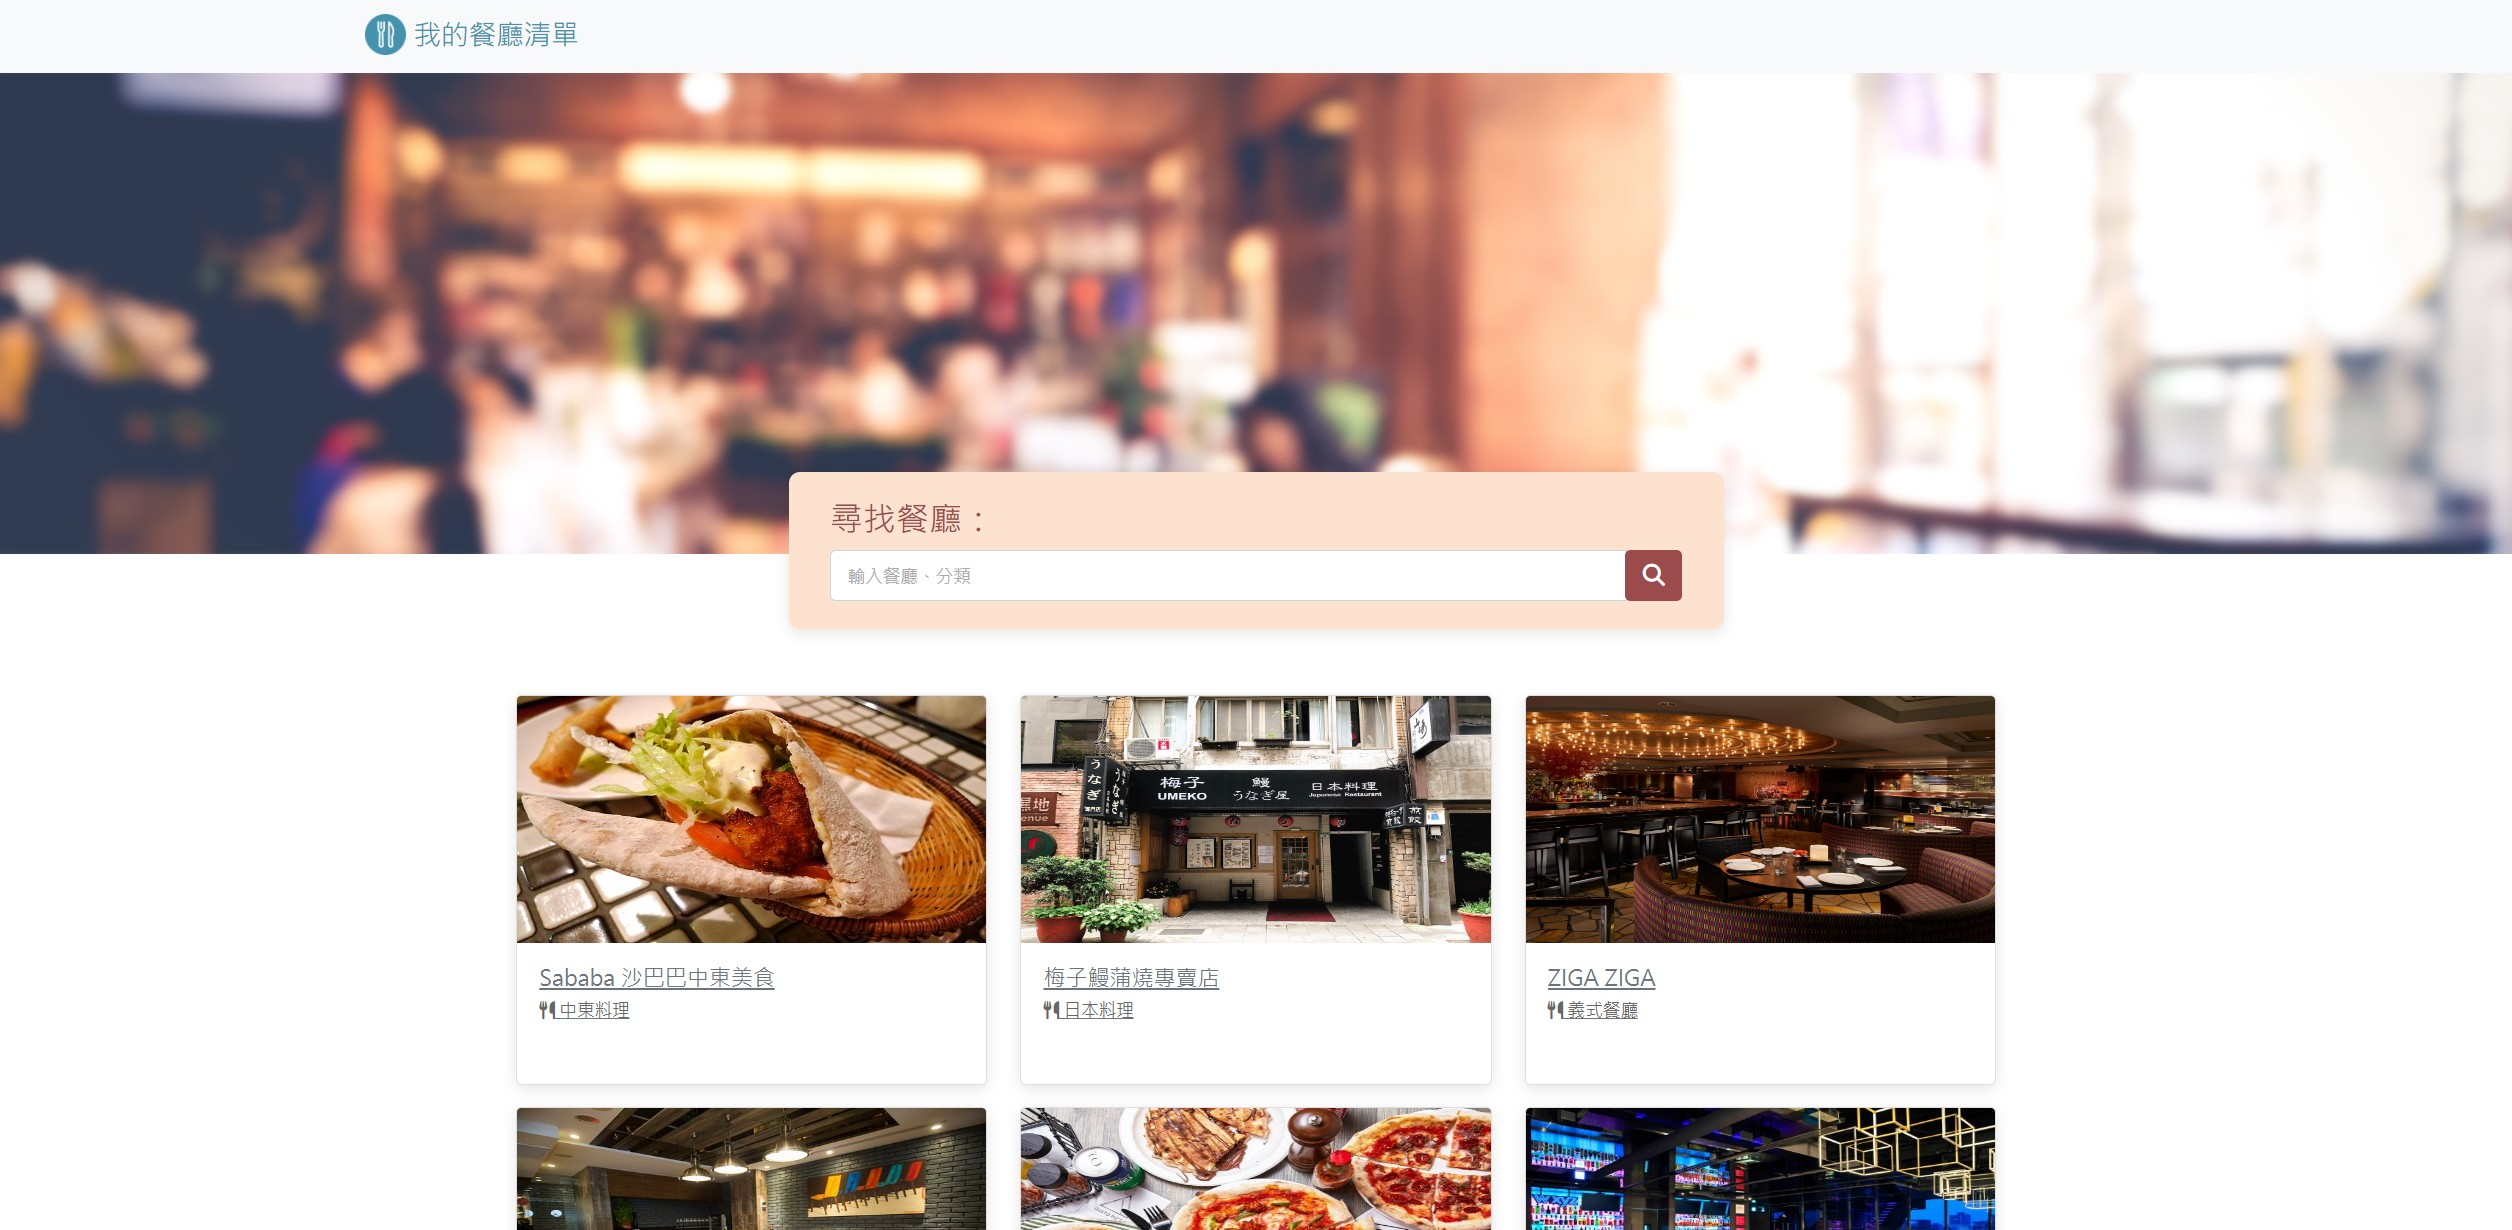
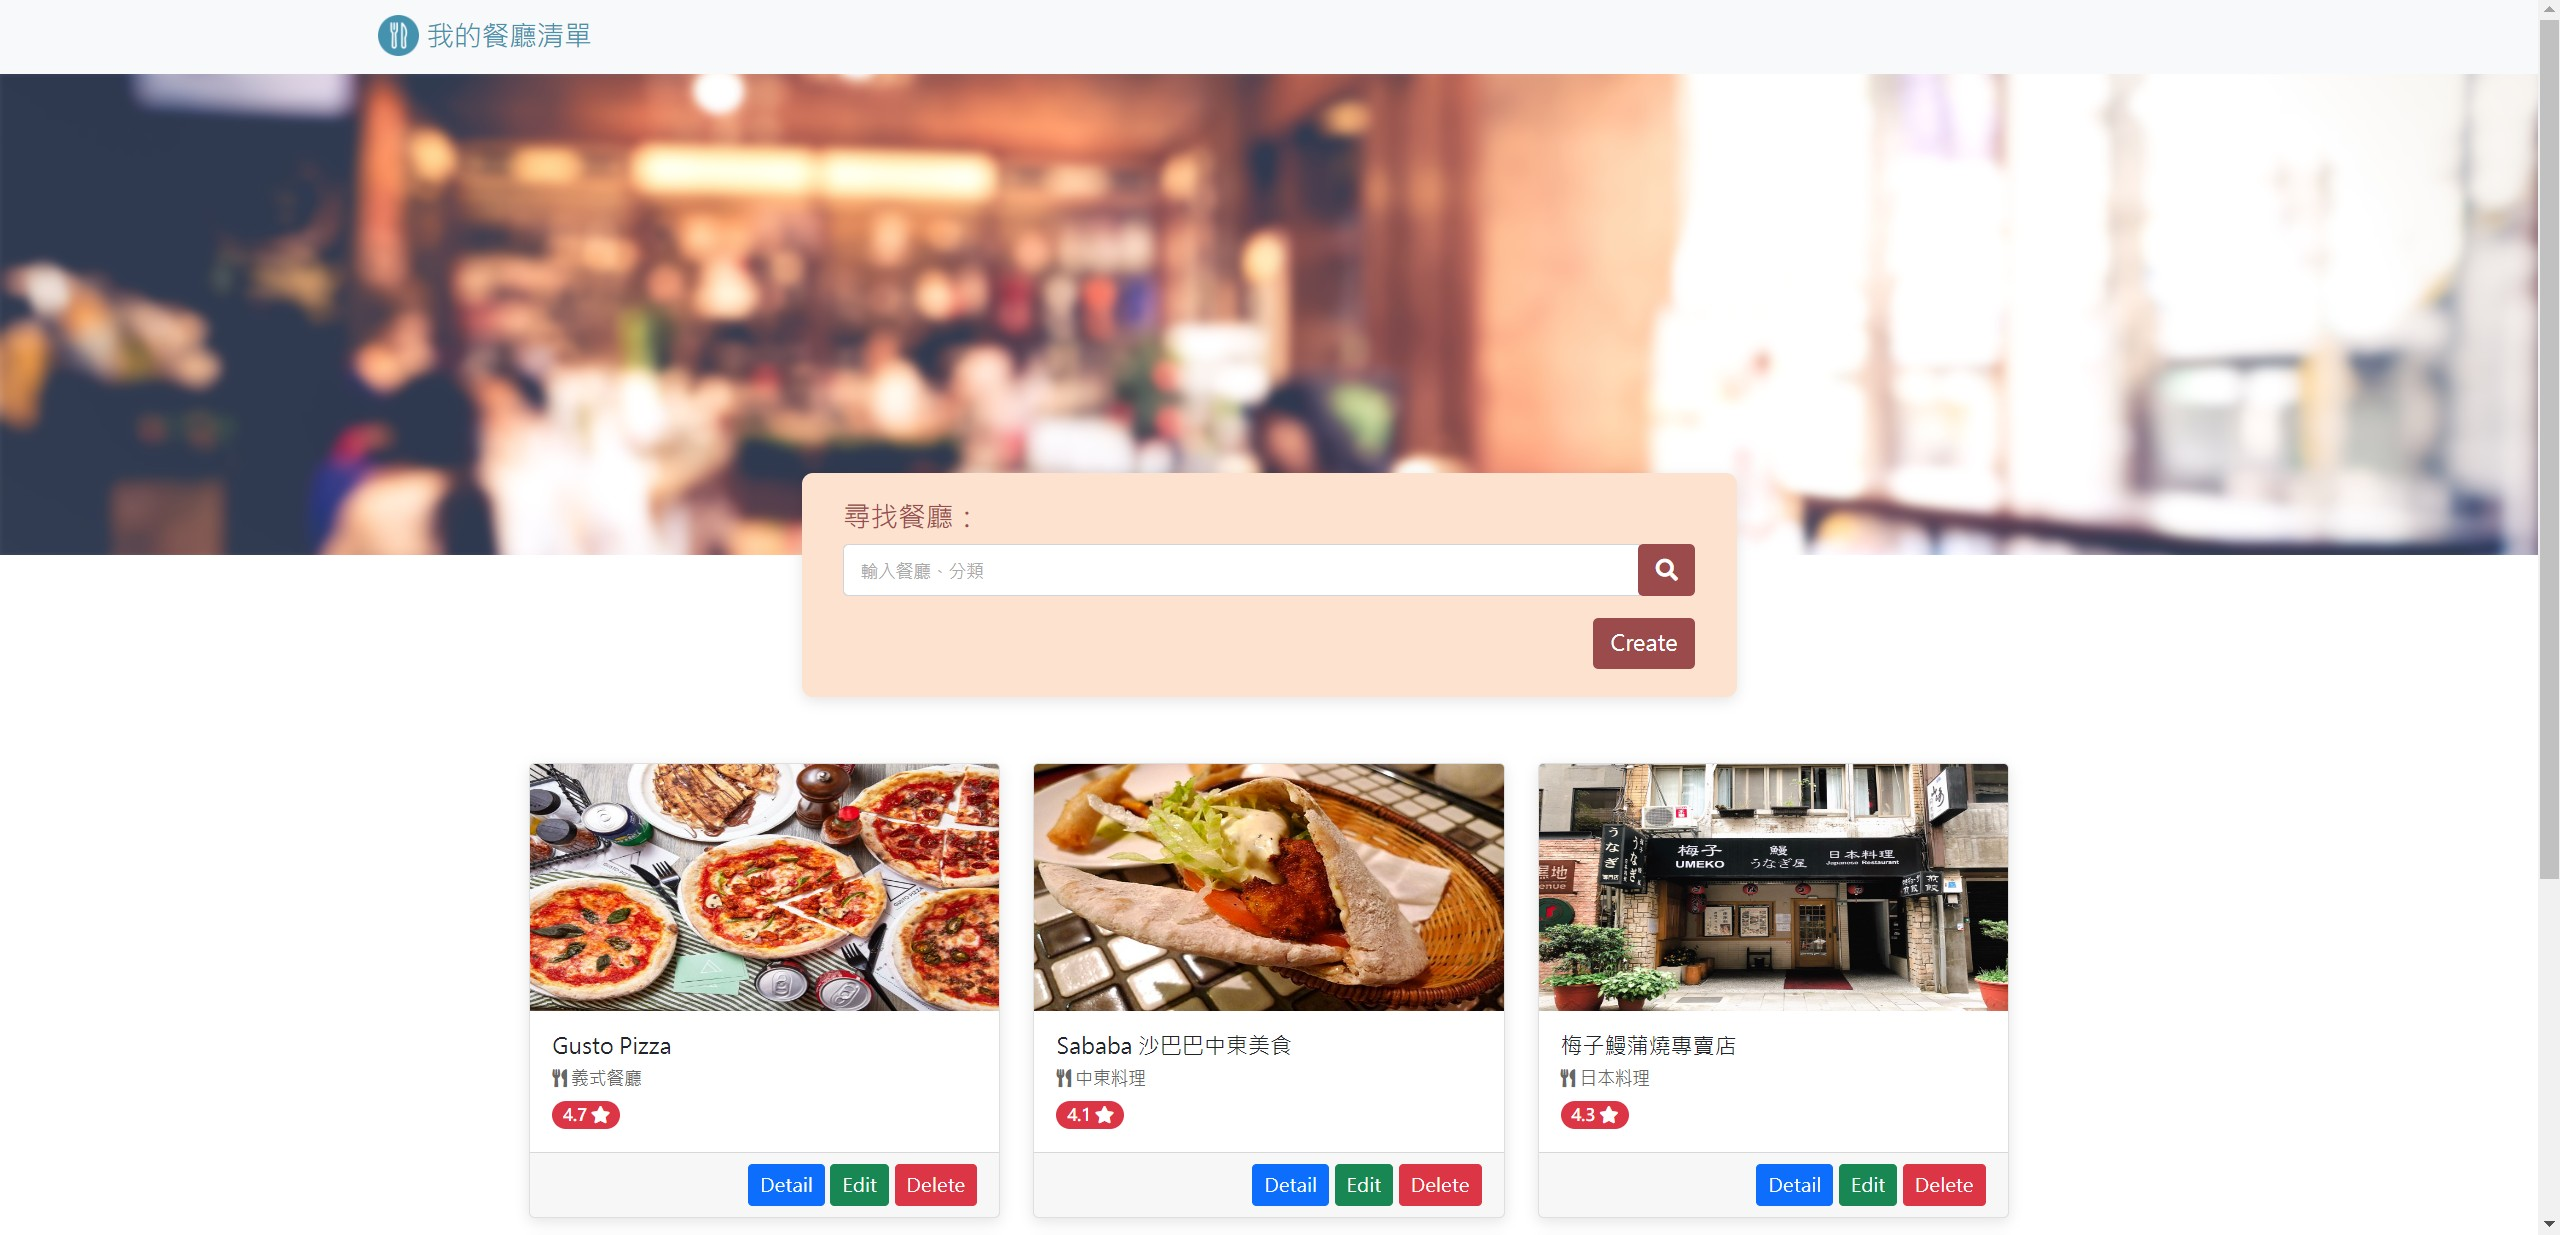
feat: update readme

diff --git a/readme.md b/readme.md
@@ -1,6 +1,5 @@
 # 我的餐廳清單
 
-
 一個使用 Node.js + Express 打造的餐廳美食網站，可依照餐廳名稱與類別進行搜尋。
 
 ## 專案畫面
@@ -13,6 +12,7 @@
 
 1. 使用者可以點擊任一餐廳，查看更多餐廳資訊，如地址、電話與簡介
 2. 使用者可以依照中文名稱、英文名稱與餐廳類別進行搜尋
+3. 使用者可以新增/刪除/編輯餐廳資訊
 
 ## Environment SetUp - 環境建置
 
@@ -35,19 +35,19 @@ cd reataurant-list
 3. 安裝 npm 套件
 
 ```
-在 Terminal 輸入 npm install 指令
+npm install
 ```
 
 4. 安裝 nodemon 套件
 
 ```
-在 Terminal 輸入 npm install -g nodemon 指令
+npm i -g nodemon 
 ```
 
 5. 啟動伺服器，執行 app.js 檔案
 
 ```
-nodemon app.js
+npm run dev
 ```
 
 6. 當 terminal 出現以下字樣，表示伺服器與資料庫已啟動並成功連結
@@ -56,7 +56,11 @@ nodemon app.js
 Express is running on http://localhost:3000
 ```
 
-現在，你可開啟任一瀏覽器瀏覽器輸入 [http://localhost:3000](http://localhost:3000) 開始使用'我的餐廳清單'囉！
+### 使用工具
+Visual Studio Code - 開發環境
+Express - 應用程式架構
+Express-Handlebars - 模板引擎
+MongoDB - 資料庫
 
 ## Contributor - 專案開發人員
 
